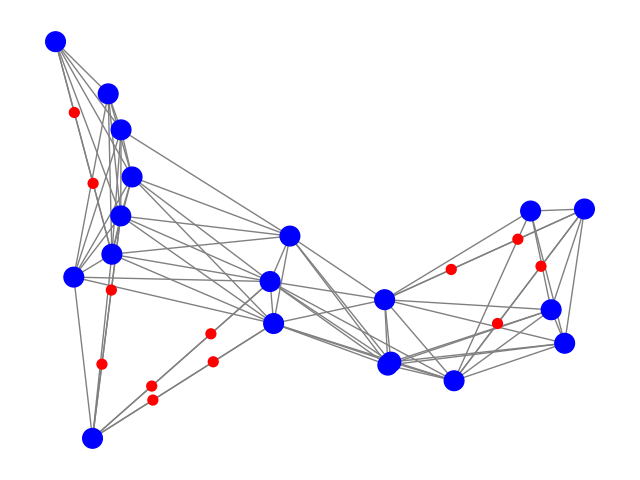
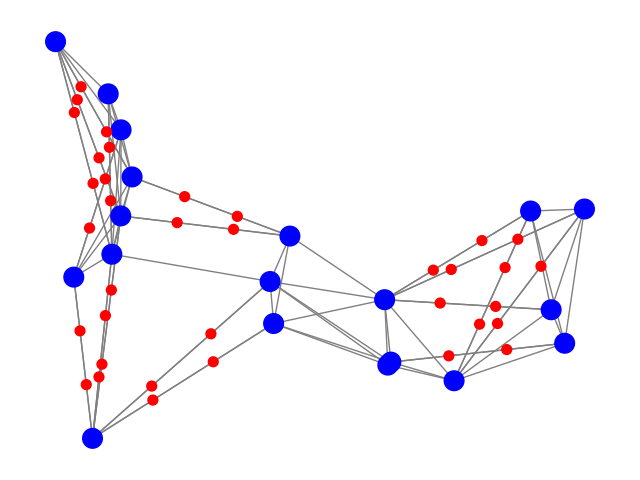
sync

diff --git a/src/test/exp.py b/src/test/exp.py
@@ -138,8 +138,12 @@ def test_flow_solver(
         cluster_nums: 'list[int]'=range(1, 11),
         ):
 
-    objs = np.zeros((len(cluster_nums) + 1, ))
-    times = np.zeros((len(cluster_nums) + 1, ))
+    objs = np.ndarray((len(cluster_nums) + 1, ))
+    times = np.ndarray((len(cluster_nums) + 1, ))
+
+    # set all values to nan
+    objs.fill(np.nan)
+    times.fill(np.nan)
 
     for i, cluster_num in enumerate(cluster_nums):
         net = copy.deepcopy(network)
@@ -151,6 +155,7 @@ def test_flow_solver(
 
         start = time.time()
         solver = FlowSolver(net)
+        solver.build()
         solver.solve()
         end = time.time()
 
@@ -159,21 +164,18 @@ def test_flow_solver(
 
         print(f"Cluster Number: {cluster_num} Done.")
         
-    # plot line figure for obj
-    fig = plt.figure()
-    ax = fig.add_subplot(111)
-    ax.plot(cluster_nums, objs[1:])
-    ax.set_xlabel('Cluster Number')
-    ax.set_ylabel('Objective Value')
-    plt.savefig(f'./result/flow/fig_obj_{network.task.vset.vsrc.name}.png')
+        # plot 2 y axis, obj and time
+        fig, ax1 = plt.subplots()
+        ax2 = ax1.twinx()
+        ax1.plot(cluster_nums, objs[1:], 'g-')
+        ax2.plot(cluster_nums, times[1:], 'b-')
+        ax1.set_xlabel('Cluster Number')
+        ax1.set_ylabel('Cost', color='g')
+        ax2.set_ylabel('Time', color='b')
 
-    # plot line figure for time
-    fig = plt.figure()
-    ax = fig.add_subplot(111)
-    ax.plot(cluster_nums, times[1:])
-    ax.set_xlabel('Cluster Number')
-    ax.set_ylabel('Time')
-    plt.savefig(f'./result/flow/fig_time_{network.task.vset.vsrc.name}.png')
+        prob = network.hw_params['swap_prob']
+        plt.savefig(f'./result/flow/fig_{network.task.vset.vsrc.name}_{prob}.png')
+
 
     return objs, times
 
@@ -237,46 +239,87 @@ def test_greedy_solver(
 
 
 def comp_solvers():
-
     seed = 0
     random.seed(seed)
     np.random.seed(seed)
 
     vsrc = VertexSource.NOEL
     vset = VertexSet(vsrc)
-    task = Task(vset, 0.2, (10, 11))
+    demand = 10
+    task = Task(vset, 0.5, (demand, demand+1))
     net = Topology(task=task)
 
-    net.connect_nodes_nearest(5)
-    net.connect_nearest_component()
-    net.segment_edges(150, 150)
+    city_num = len(net.graph.nodes)
+    seg_len = get_edge_length(demand, net.hw_params['photon_rate'], net.hw_params['fiber_loss'])
+    print(f"Suggested edge length: {seg_len}")
 
-    net_path = copy.deepcopy(net)
-    path_solver = PathSolver(net_path, 100, mip_gap=0.01)
-    # path_solver = PathSolverNonCost(net_path, 10, mip_gap=0.01)
-    # path_solver = PathSolverMinResource(net_path, 10, mip_gap=0.01)
-    path_solver.prepare_paths()
-    path_solver.build()
-    path_solver.solve()
-    print(path_solver.obj_val)
-    # plot_optimized_network(
-    #     path_solver.network.graph, 
-    #     path_solver.m, path_solver.c, path_solver.phi,
-    #     filename='./result/test/fig_solved_path.png')
+    net.connect_nodes_nearest(5, 1) # ~7.8e6
+    # net.connect_nearest_component()
+    # k=50    k=100   k=150   k=200   k=500
+    # ~3.5e7  ~3.2e7  ~2.8e7  ~1e7    ~6.4e6
+    # net.make_clique(list(net.graph.nodes), 1) 
+    net.segment_edges(seg_len, seg_len, 1)
+    # net.segment_edges(100, 100, 1)
+    # net.connect_nodes_radius(200, 1)
+
+    net.plot(None, None, './result/path/fig.png')
+
+    # print(net.graph.edges(data=True))
+
+    k = 100
+    start = time.time()
+    solver = PathSolver(net, k, output=True)
+    # solver = PathSolverNonCost(net, k, output=True)
+    # solver = PathSolverMinResource(net, k, output=True)
+    solver.prepare_paths()
+    solver.build()
+    solver.solve()
+    end = time.time()
+    print(f"Time elapsed: {end - start}")
+
+    m = { node: int(m.x) for node, m in solver.m.items() }
+    c = { edge: int(c.x) for edge, c in solver.c.items() }
+    phi = { edge: phi.x for edge, phi in solver.phi.items() }
+    print("Path Solver obj: ", solver.obj_val)
+    plot_optimized_network(
+        solver.network.graph,
+        m, c, phi,
+        False,
+        filename='./result/path/fig-solved.png'
+        )
 
     net_flow = copy.deepcopy(net)
+    start = time.time()
     flow_solver = FlowSolver(net_flow, mip_gap=0.01)
     # flow_solver = FlowSolverNonCost(net_flow, mip_gap=0.01)
     # flow_solver = FlowSolverMinResource(net_flow, mip_gap=0.01)
-    # flow_solver.build()
-    # flow_solver.solve()
-
+    flow_solver.build()
+    flow_solver.solve()
+    end = time.time()
     if flow_solver.obj_val is not None:
-        print(flow_solver.obj_val)
+        print("Flow Solver obj: ", flow_solver.obj_val)
+        print("Time elapsed: ", end - start)
         # plot_optimized_network(
         #     flow_solver.network.graph, 
         #     flow_solver.m, flow_solver.c, flow_solver.phi,
         #     filename='./result/test/fig_solved_flow.png')
+
+    net_greedy = copy.deepcopy(net)
+    start = time.time()
+    # solver = GreedySolver(net, k, None, 'resource')
+    solver = GreedySolver(net_greedy, k, None, 'cost')
+    solver.solve()
+    end = time.time()
+
+    
+    print("Greedy Solver obj: ", solver.obj_val)
+    print("Time elapsed: ", end - start)
+    plot_optimized_network(
+        solver.network.graph, 
+        solver.m, solver.c, solver.phi, 
+        filename='./result/greedy/fig-solved.png'
+        )
+
 
 
 def demo():
@@ -328,6 +371,14 @@ if __name__ == "__main__":
     # 2. solving is fast but building is slow
     #    building time is sensitive to graph density
 
+    seed = 0
+    random.seed(seed)
+    np.random.seed(seed)
 
-    comp_solvers()
-    print("Done.")
+    vsrc = VertexSource.NOEL
+    vset = VertexSet(vsrc)
+    demand = 10
+    task = Task(vset, 0.5, (demand, demand+1))
+    net = Topology(task=task)
+    
+    test_flow_solver(net, range(1, 11))

diff --git a/src/solver/path.py b/src/solver/path.py
@@ -339,7 +339,7 @@ class PathSolverMinResource(PathSolverNonCost):
 
 
 if __name__ == "__main__":
-    seed = 66
+    seed = 0
     random.seed(seed)
     np.random.seed(seed)
 
@@ -353,11 +353,11 @@ if __name__ == "__main__":
     seg_len = get_edge_length(demand, net.hw_params['photon_rate'], net.hw_params['fiber_loss'])
     print(f"Suggested edge length: {seg_len}")
 
-    # net.connect_nodes_nearest(10, 1) # ~7.8e6
-    # net.connect_nearest_component(1)
+    net.connect_nodes_nearest(5, 1) # ~7.8e6
+    # net.connect_nearest_component()
     # k=50    k=100   k=150   k=200   k=500
     # ~3.5e7  ~3.2e7  ~2.8e7  ~1e7    ~6.4e6
-    net.make_clique(list(net.graph.nodes), 1) 
+    # net.make_clique(list(net.graph.nodes), 1) 
     net.segment_edges(seg_len, seg_len, 1)
     # net.segment_edges(100, 100, 1)
     # net.connect_nodes_radius(200, 1)
@@ -366,11 +366,13 @@ if __name__ == "__main__":
 
     # print(net.graph.edges(data=True))
 
-    k = 1000
+    k = 500
     start = time.time()
     solver = PathSolver(net, k, output=True)
     # solver = PathSolverNonCost(net, k, output=True)
     # solver = PathSolverMinResource(net, k, output=True)
+    solver.prepare_paths()
+    solver.build()
     solver.solve()
     end = time.time()
     print(f"Time elapsed: {end - start}")

diff --git a/src/solver/flow.py b/src/solver/flow.py
@@ -431,26 +431,27 @@ if __name__ == "__main__":
 
     vsrc = VertexSource.NOEL
     vset = VertexSet(vsrc)
-    task = Task(vset, 1.0, (100, 101))
+    task = Task(vset, 0.5, (10, 11))
     net = Topology(task=task)
     city_num = len(net.graph.nodes)
 
     net.connect_nodes_nearest(5, 1)
-    net.connect_nodes_radius(200, 1)
+    # net.connect_nodes_radius(200, 1)
     net.connect_nearest_component(1)
-    net.segment_edges(200, 200, 1)
+    net.segment_edges(150, 150, 1)
     net.plot(None, None, './result/flow/fig.png')
 
     print(len(net.graph.nodes), len(net.graph.edges))
-
-    solver = FlowSolver(net, 600, output=True)
+    start = time.time()
+    solver = FlowSolver(net, 60, output=True)
     # solver = FlowSolverNonCost(net, output=True)
     # solver = FlowSolverMinResource(net, output=True)
-    
+    solver.build()
     solver.solve()
-    
+    end = time.time()
     if solver.obj_val is not None:
         print("Objective value: ", solver.obj_val)
+        print(f"Time spent: {end - start:.2f} seconds")
         m = { node: int(m.x) for node, m in solver.m.items() }
         c = { edge: int(c.x) for edge, c in solver.c.items() }
         phi = { edge: phi.x for edge, phi in solver.phi.items() }

diff --git a/src/solver/greedy.py b/src/solver/greedy.py
@@ -2,6 +2,7 @@
 
 from copy import deepcopy
 import random
+import time
 
 import numpy as np
 import networkx as nx
@@ -273,23 +274,26 @@ if __name__ == "__main__":
 
     vsrc = VertexSource.NOEL
     vset = VertexSet(vsrc)
-    task = Task(vset, 1.0, (100, 101))
+    task = Task(vset, 0.5, (10, 11))
     net = Topology(task=task)
 
     city_num = len(net.graph.nodes)
-    net.connect_nodes_nearest(10, 1)
-    net.connect_nodes_radius(200, 1)
+    net.connect_nodes_nearest(5, 1)
+    # net.connect_nodes_radius(200, 1)
     net.connect_nearest_component(1)
-    net.segment_edges(200, 200, 1)
+    net.segment_edges(150, 150, 1)
     net.plot(None, None, './result/greedy/fig.png')
 
-    k = 10
+    k = 500
+    start = time.time()
     # solver = GreedySolver(net, k, None, 'resource')
     solver = GreedySolver(net, k, None, 'cost')
     solver.solve()
+    end = time.time()
 
     
     print("Objective value: ", solver.obj_val)
+    print("Time elapsed: ", end - start)
     plot_optimized_network(
         solver.network.graph, 
         solver.m, solver.c, solver.phi, 

diff --git a/src/network/quantum.py b/src/network/quantum.py
@@ -3,15 +3,15 @@ import numpy as np
 
 
 HWParam = {
-    'swap_prob': 0.5, # swap probability
+    'swap_prob': 0.75, # swap probability
     'fiber_loss': 0.2, # fiber loss
     'photon_rate': 1e4, # photon rate
     'pm': 1, # memory price per slot
     # 'pm_install': 1e6, # memory installation price
-    'pm_install': 1e1, # memory installation price
+    'pm_install': 1e2, # memory installation price
     'pc': 1, # channel price per km
     # 'pc_install': 1e4, # channel installation price
-    'pc_install': 1e1, # channel installation price
+    'pc_install': 1e2, # channel installation price
 }
 
 def complete_swap(costs: 'list[float]', swap_prob: float):
